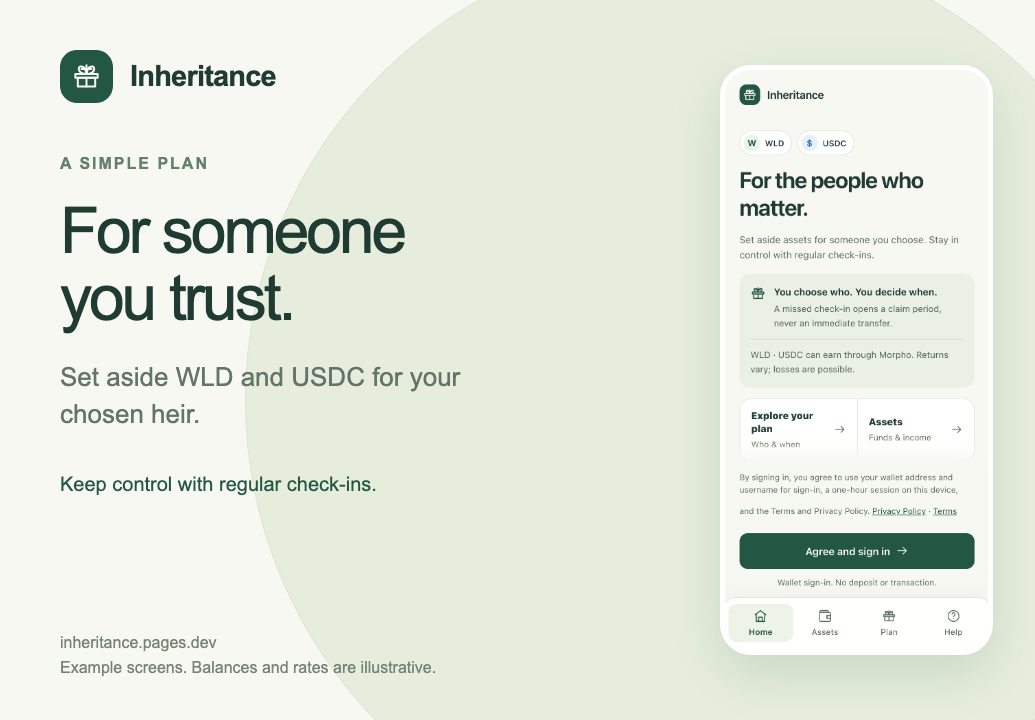
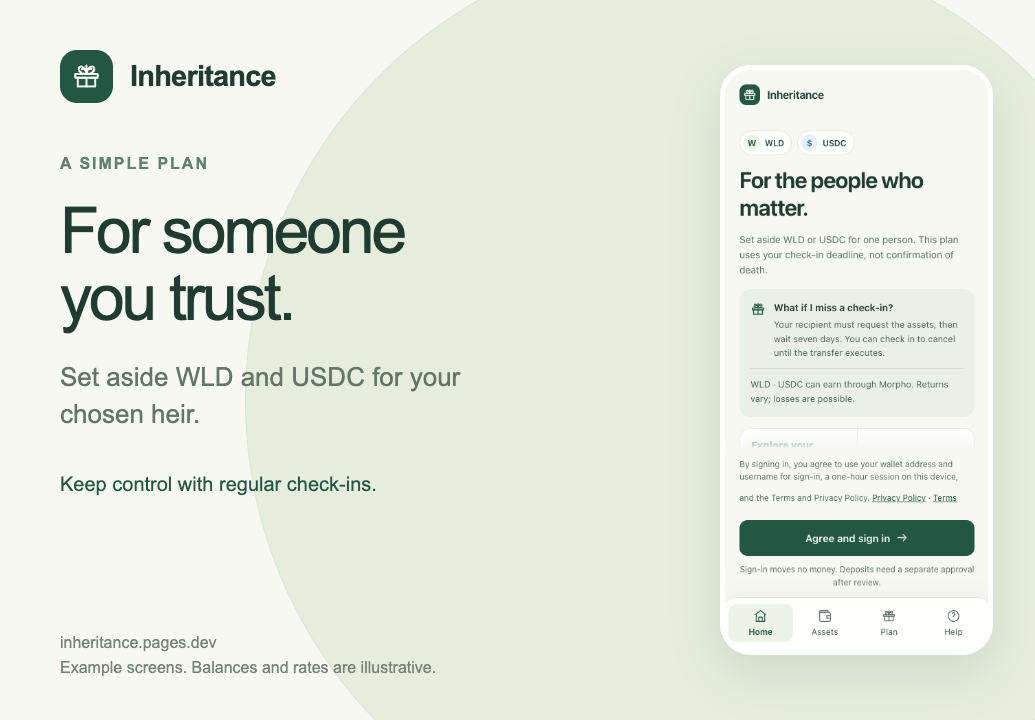
Refresh first-use previews and stabilize Chromium profile paths

Changed region(s): [[0.7111, 0.3056, 0.9585, 0.825]]

diff --git a/docs/RELEASE.md b/docs/RELEASE.md
@@ -3,6 +3,32 @@
 The first dated section is the latest verified state. Older dated sections
 record historical snapshots and do not override it.
 
+## Current work — first-use clarity review
+
+After submission, the operator requested another walkthrough from a first-time
+user's perspective and authorized further fixes. The latest Portal readback is
+**unverified**, exactly **KR**; this supersedes the earlier awaiting-review
+snapshot below. No inference is made about who changed that status.
+
+Runtime source `8cf931c` clarifies the check-in trigger rather than death
+verification, the recipient's request and seven-day wait, login versus deposit,
+optional asset selection and manual recipient entry. The interval explanation
+is visible without expanding details. No transaction or inheritance rules changed.
+The isolated first-use walkthrough reaches review with each asset separately,
+retains exact amounts on Edit, and records zero transaction requests. It is not
+research with recruited users. Final runtime/deployment/native evidence follows
+when complete.
+
+The first Chromium run failed the expanded-guide clearance gate and could not
+capture its failure screenshot. A controlled same-browser probe isolated the
+fixture: a relative profile path produced zero animation frames in one second
+and no screenshot; an absolute path produced 60 frames and a screenshot, with
+the same GPU flag. A separate GPU-flag comparison using absolute paths passed
+both cases. The driver now resolves its run/profile directory to an absolute
+path. This fixes the test renderer setup, not production app layout. The final
+run uses the original browser flags and a relative VERIFY_TMP input to exercise
+the path correction. Raw probes remain private outside Git.
+
 ## November 2 15:08 KST — revised UI submitted, Korea only
 
 The operator-authorized revised release was submitted after runtime CI, native

diff --git a/docs/REVIEW_NOTES.md b/docs/REVIEW_NOTES.md
@@ -42,6 +42,21 @@ and checks its receipt before allowing another deposit. The repaired **All** wit
 position at execution; actual Android WLD and USDC round trips finished with
 zero remaining shares, assets and cost basis.
 
+## First-use clarity
+
+The welcome screen explains that the trigger is a missed check-in deadline,
+not confirmation of death. It states who must request the assets, the seven-day
+wait and the owner's ability to cancel before transfer. Sign-in is distinguished
+from a separately approved deposit.
+
+The amount fields explain that one asset is sufficient and unused fields can
+stay blank. Recipient help explicitly permits usernames or wallet addresses
+without a saved contact. Missed-deadline instructions are visible beside the
+interval field without opening details. These changes apply in English and
+Korean. A first-use walkthrough reached review with WLD alone and USDC alone,
+verified exact amounts and preserved drafts, and requested zero transactions.
+This is an engineering walkthrough, not a study with recruited first-time users.
+
 ## Suggested review walkthrough
 
 1. Browse Home, Assets, Plan and Help before signing in. Open Terms and Privacy;

diff --git a/docs/MAC_HANDOFF.md b/docs/MAC_HANDOFF.md
@@ -25,6 +25,18 @@ that approval is for this completed test, not unrelated future spending. The pre
 Exactly one approved self-notification has already been used. Do not send another
 notification, contact message, invitation or external inquiry without authority.
 
+## Current work — first-use clarity review
+
+The operator requested a first-time-user walkthrough and further UI fixes.
+Runtime `8cf931c` clarifies the deadline trigger, request/seven-day wait,
+login versus deposits, optional assets and recipients outside saved contacts.
+The latest Portal readback is **unverified**, still exactly **KR**; do not use
+the prior awaiting-review receipt as current status. Existing remediation,
+deployment and Korea-only submission authority remains unchanged.
+See the newest [RELEASE.md](RELEASE.md) section for completed checks and the
+Chromium relative-profile-path diagnosis. Native run 41399668170 is in progress.
+No additional funds or notifications are used.
+
 ## November 2 15:08 KST — revised UI submitted, Korea only
 
 The operator-authorized revised release was submitted after runtime CI, native
